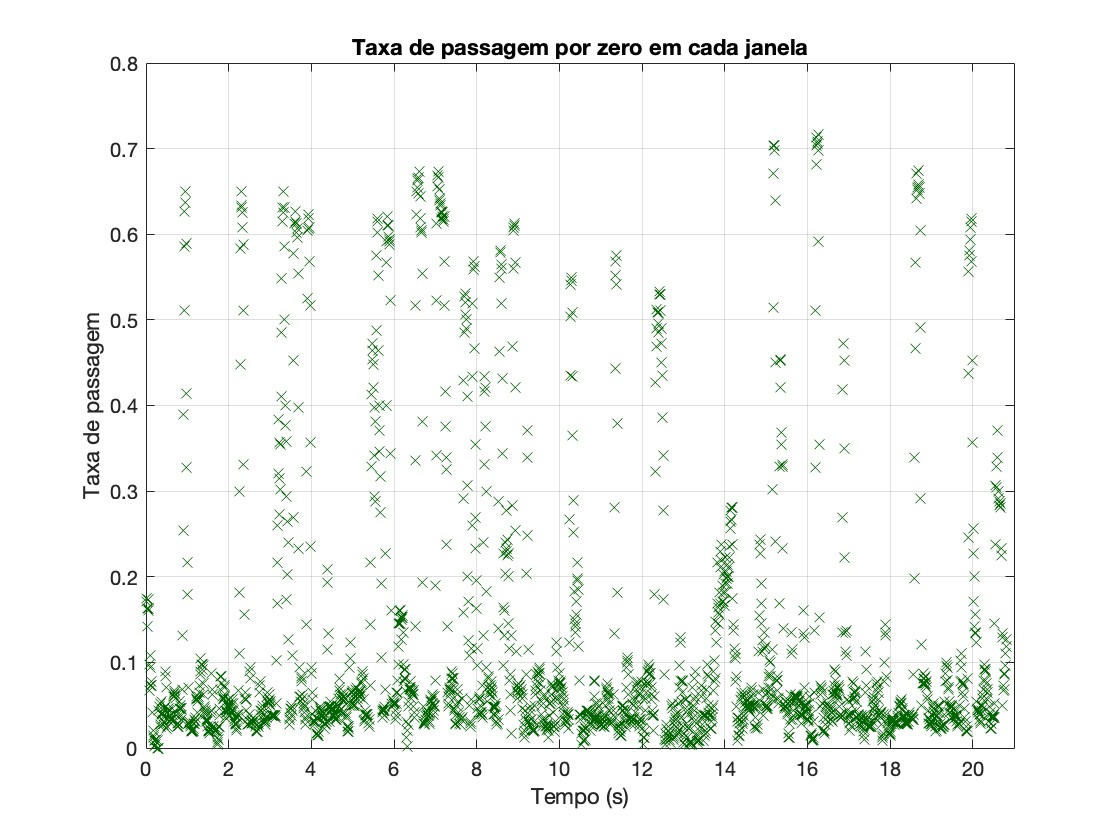
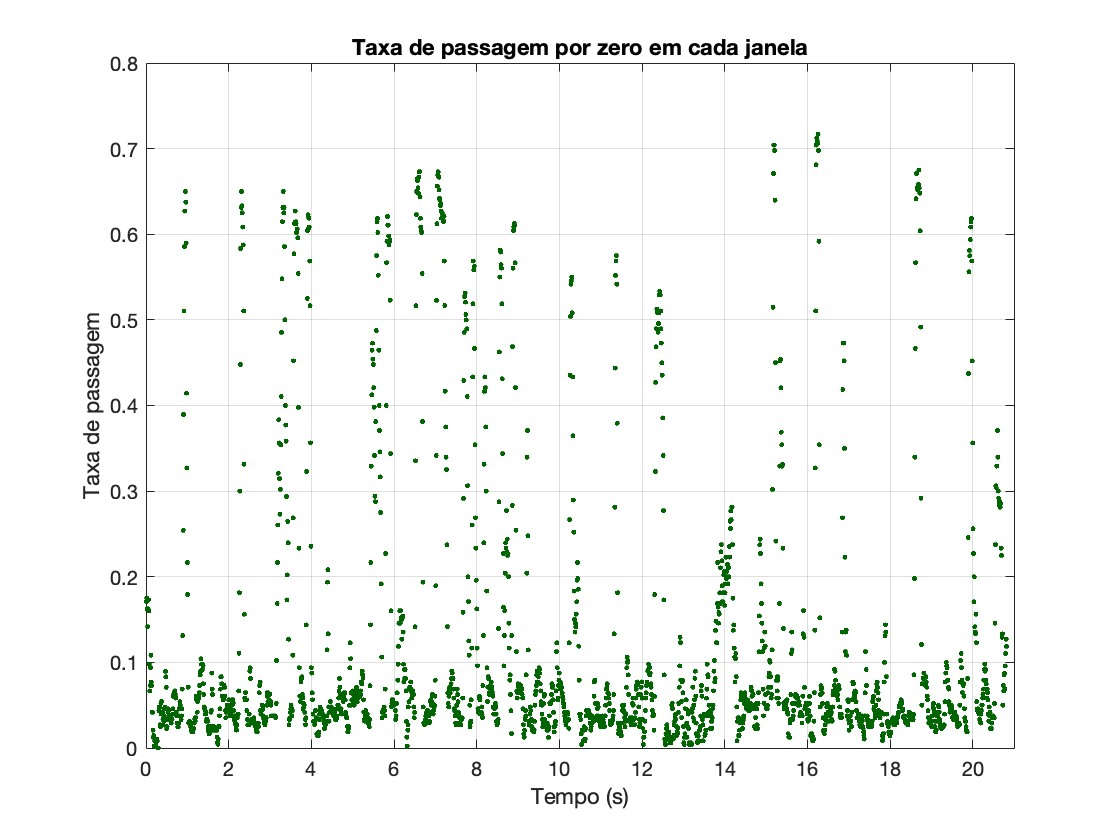
Novos plots

diff --git a/tp2/work2_Real.m b/tp2/work2_Real.m
@@ -69,29 +69,25 @@ for i = 1:numFrames
 end
 fprintf("DEBUG: numero de frames: %d | tamanho energia: %d\n", numFrames, length(energy))
 aux = (1:length(energy)) .* framestep;
+
+% Energy plot
 figure(2); plot(aux, 10*log(energy),'color', dark_green); xlabel("Tempo (s)"); ylabel('Energia (dB)'); grid on; title("Energia por Frame"); xlim([0 21]); drawnow;
-figure(3); plot(aux, zeroCrossingRate, 'x', 'color', dark_green); xlabel("Tempo (s)"); ylabel('Taxa de passagem'); grid on; title("Taxa de passagem por zero em cada janela"); xlim([0 21]); drawnow;
-figure(4); plot(aux, f0, 'x', 'color', dark_blue); xlabel("Frame"); ylabel('Frequency'); grid on; title("Fundamental frequency (f0)"); xlim([0 21]); drawnow;
+
+% Zero crossing plot
+figure(3); plot(aux, zeroCrossingRate, '.', 'color', dark_green); xlabel("Tempo (s)"); ylabel('Taxa de passagem'); grid on; title("Taxa de passagem por zero em cada janela"); xlim([0 21]); drawnow;
+zeroCrossingRate_filtered = medfilt1(zeroCrossingRate, 5);
+figure(4); plot(aux, zeroCrossingRate_filtered, '.', 'color', dark_blue); xlabel("Tempo (s)"); ylabel('Taxa de passagem'); grid on; title("Taxa de passagem por zero em cada janela após filtro mediana"); xlim([0 21]); drawnow;
 
 
-
+% Fundamental Freq. Plot
+figure(5); plot(aux, f0, '.', 'color', dark_green); xlabel("Frame"); ylabel('Frequency'); grid on; title("Frequência Fundamental por janela"); xlim([0 21]); drawnow;
+f0_filterd = medfilt1(f0, 20);
+figure(6); plot(aux, f0_filterd, '.', 'color', dark_blue); xlabel("Frame"); ylabel('Frequency'); grid on; title("Frequência Fundamental por janela após filtro mediana"); xlim([0 21]); drawnow;
 
 binEdges = 50:10:400;
-figure(5); histogram(f0, binEdges, 'FaceColor', dark_blue); xlabel('Frequênciac Fundamental'); ylabel('Occorência em Frames'); title('Ocurrência de valores de F0');
-% histogram(f0_pitch, binEdges, 'FaceColor', dark_blue); xlabel('Frequênciac Fundamental'); ylabel('Occorência em Frames'); title('Ocurrência de valores de F0');
-f0_filterd = filterVector(f0, 50, 5);
-figure(6); plot(aux, f0_filterd, '.', 'color', dark_blue); xlabel("Frame"); ylabel('Frequency'); grid on; title("Fundamental frequency (f0)"); xlim([0 21]); drawnow;
+figure(7); histogram(f0, binEdges, 'FaceColor', dark_blue); xlabel('Frequênciac Fundamental'); ylabel('Occorência em Frames'); title('Ocurrência de valores de F0');
 
 fprintf("End of the program.\n")
-
-
-function filteredVector = filterVector(vector, window, th)
-    windowSize = window;  
-    filteredVector = medfilt1(vector, windowSize);
-    absDiff = abs(vector - filteredVector);
-    threshold = th;  % Adjust as needed
-    filteredVector(absDiff > threshold) = 0;  
-end
 
 
 % Define a function to calculate F0 using autocorrelation

diff --git a/tp2/fo_range_aux.m b/tp2/fo_range_aux.m
@@ -1,0 +1,24 @@
+%% Auxiliar plot for fundamental frequência
+close all
+clear all
+clc
+
+dark_green = 1/255 * [0,100,0];
+dark_blue = 1/255 * [3,37,126];
+dark_red = 1/255 * [139, 37, 20];
+
+x = -10:0.1:20;
+y = sinc(x-10).*sin(x-10);
+
+f_max = 30;
+f_min = 40;
+
+
+figure(1); 
+subplot(2,1,1); plot(x, y, 'color', dark_blue, 'LineWidth', 1.2); xlabel("tempo (s)"); ylabel('Amplitude'); grid off; title("y = sinc(x-10) * sin(x-10)");xlim([0 20]);
+
+y_corr = xcorr(y);
+subplot(2,1,2); plot(y_corr, 'color', dark_blue, 'LineWidth', 1.2); xlabel("Frequência (Hz)"); ylabel('Amplitude'); grid off; title("autocorrelção sinc(x)");xlim([0 50]);
+
+xline(f_max,'--r','1 / f_0max', 'color', dark_red, 'LineWidth', 1.5);
+xline(f_min,'--r','1 / f_0min', 'color', dark_red, 'LineWidth', 1.5);
